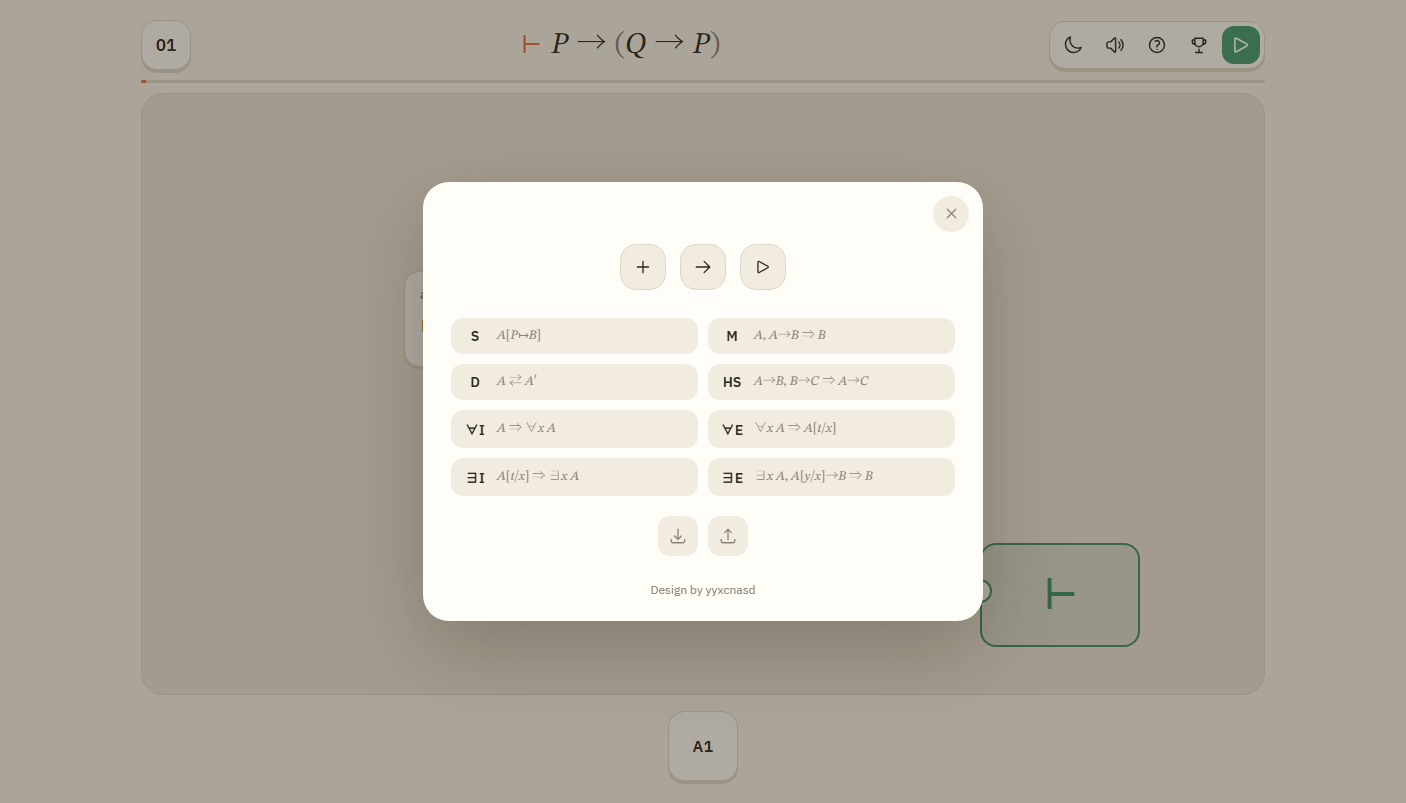
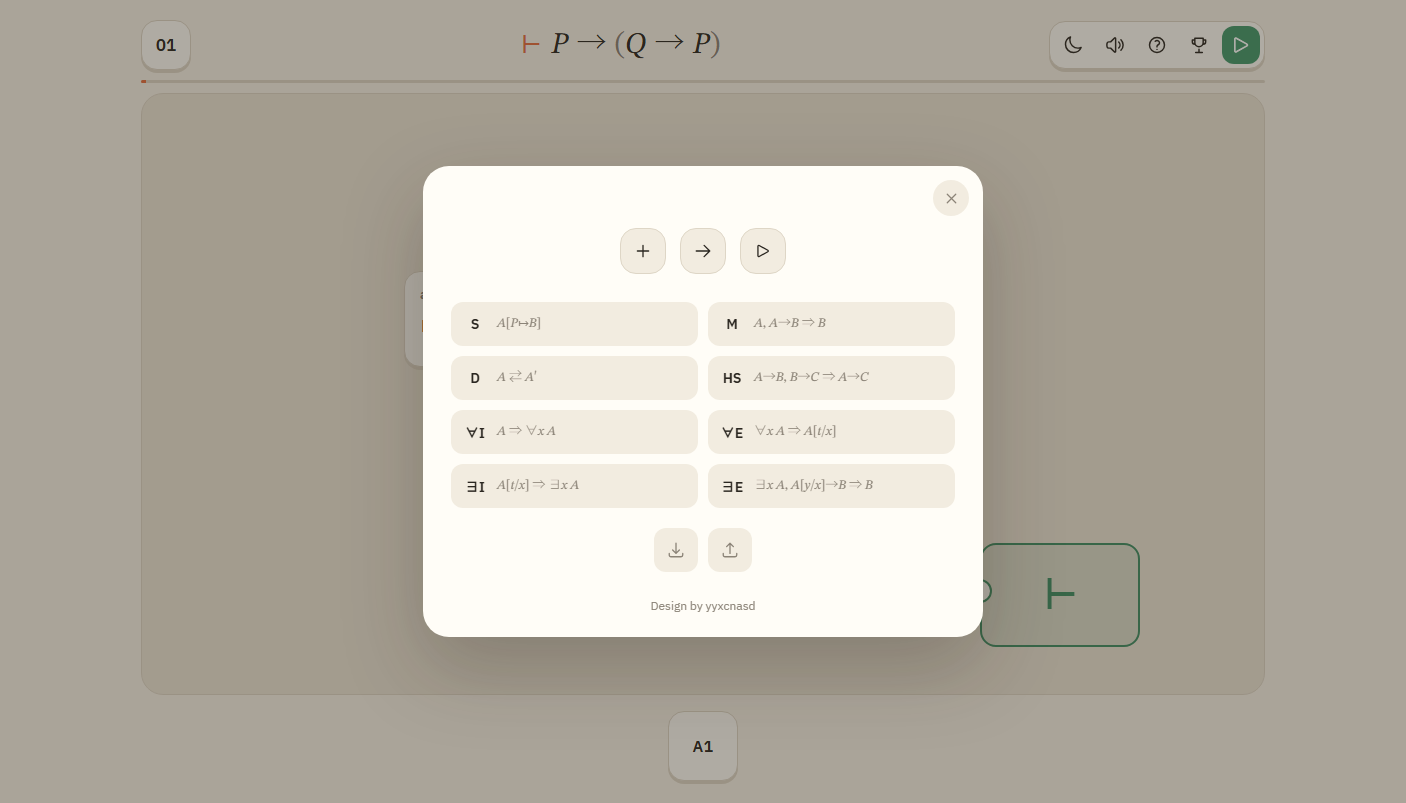
Add mobile adaptation: safe areas, touch hit targets, wiring tolerance, landscape layout
- safe-area insets on topbar/stage/tray/popover/sheet for notch and home indicator
- 44px effective hit targets (38px visuals) for topbar/sheet controls; help cards/save/opt >=44; coarse pointer ports 24px
- touch wiring snaps to nearest port within 30px; started from output or finished on input; long-press delete kept
- double-tap empty board (or double-click) refits the circuit to the viewport
- landscape (height <=520px) compacts topbar and tray; board height rises from 189px to 267px at 844x390
- iOS polish: tap-highlight off, -webkit-overflow-scrolling, prefixed backdrop blur, no text selection on game surfaces
- acceptance extended: pinch already covered; now touch near-miss wiring, double-tap fit, landscape height/no-overflow/target visibility

diff --git a/src/simple.css b/src/simple.css
@@ -202,11 +202,12 @@ html{
   text-size-adjust:100%;
 }
 body{
-  height:100%;margin:0;overflow:hidden;
+  height:100%;margin:0;overflow:hidden;overscroll-behavior:none;
   background:var(--bg);
   color:var(--ink);
   font-family:var(--font);
   -webkit-font-smoothing:antialiased;
+  -webkit-tap-highlight-color:transparent;
   font-variant-numeric:tabular-nums;
 }
 button{font:inherit;color:inherit;border:0;background:none;padding:0;cursor:pointer}
@@ -254,7 +255,8 @@ button{font:inherit;color:inherit;border:0;background:none;padding:0;cursor:poin
   grid-row:1;grid-column:1;
   width:100%;max-width:var(--shell-w);margin-inline:auto;
   display:grid;grid-template-columns:auto minmax(0,1fr) auto;
-  align-items:center;gap:22px;padding:20px var(--gap) 10px;
+  align-items:center;gap:22px;
+  padding:calc(20px + env(safe-area-inset-top,0px)) calc(var(--gap) + env(safe-area-inset-right,0px)) 10px calc(var(--gap) + env(safe-area-inset-left,0px));
 }
 
 .level-num{
@@ -359,6 +361,7 @@ button{font:inherit;color:inherit;border:0;background:none;padding:0;cursor:poin
   box-shadow:var(--board-inset);
   touch-action:none;cursor:default;
 }
+.board,.topbar,.tray{-webkit-user-select:none;user-select:none}
 .board.is-panning{cursor:grabbing}
 .board.is-pinching{cursor:zoom-in}
 .board.is-wiring{cursor:crosshair}
@@ -497,7 +500,7 @@ button{font:inherit;color:inherit;border:0;background:none;padding:0;cursor:poin
   transform:translate(-50%,-50%);max-width:calc(100vw - 32px);
   padding:14px 18px;border-radius:var(--radius-lg);background:var(--coach-bg);border:0;
   box-shadow:var(--pop-shadow);cursor:default;
-  backdrop-filter:blur(6px);
+  -webkit-backdrop-filter:blur(6px);backdrop-filter:blur(6px);
   text-align:center;
 }
 .coach-flow{
@@ -528,7 +531,8 @@ button{font:inherit;color:inherit;border:0;background:none;padding:0;cursor:poin
   grid-row:4;grid-column:1;
   width:100%;max-width:var(--shell-w);margin-inline:auto;
   display:flex;align-items:center;justify-content:center;gap:12px;
-  min-height:108px;padding:14px var(--gap) 20px;
+  min-height:108px;
+  padding:14px calc(var(--gap) + env(safe-area-inset-right,0px)) calc(20px + env(safe-area-inset-bottom,0px)) calc(var(--gap) + env(safe-area-inset-left,0px));
   overflow-x:auto;overflow-y:hidden;
   scrollbar-width:none;overscroll-behavior-x:contain;
 }
@@ -569,7 +573,7 @@ body.is-holding *{cursor:grabbing!important}
  * ========================================================================= */
 
 .popover{
-  position:fixed;left:50%;bottom:112px;z-index:var(--z-popover);
+  position:fixed;left:50%;bottom:calc(112px + env(safe-area-inset-bottom,0px));z-index:var(--z-popover);
   transform:translateX(-50%);
   display:flex;align-items:center;gap:8px;max-width:calc(100vw - 28px);
   padding:10px 12px;border-radius:var(--radius-lg);
@@ -635,7 +639,7 @@ body.is-holding *{cursor:grabbing!important}
   padding:56px 24px 24px;
   background:var(--card);border-radius:var(--radius-sheet);
   box-shadow:var(--sheet-shadow);
-  scrollbar-width:none;overscroll-behavior:contain;
+  scrollbar-width:none;overscroll-behavior:contain;-webkit-overflow-scrolling:touch;
 }
 .sheet::-webkit-scrollbar{display:none;width:0;height:0}
 /* 面板容器由脚本 focus() 承接键盘焦点，不需要再画一圈焦点环（否则整个面板描边） */
@@ -807,7 +811,7 @@ body.is-holding *{cursor:grabbing!important}
 }
 .help-card{
   display:flex;flex-direction:row;align-items:center;gap:9px;
-  padding:9px 11px;border-radius:var(--radius-sm);background:var(--soft);
+  min-height:44px;padding:9px 11px;border-radius:var(--radius-sm);background:var(--soft);
   min-width:0;cursor:pointer;font-family:var(--font);text-align:left;
   transition:background .12s var(--ease),transform .12s var(--ease);
 }
@@ -822,7 +826,7 @@ body.is-holding *{cursor:grabbing!important}
 
 .save-row{display:flex;flex-direction:row;justify-content:center;gap:10px;padding:14px 0 0}
 .save-btn{
-  display:flex;align-items:center;justify-content:center;width:40px;height:40px;padding:0;
+  display:flex;align-items:center;justify-content:center;width:44px;height:44px;padding:0;
   border-radius:var(--radius-sm);background:var(--soft);color:var(--muted);
   transition:background .12s var(--ease),color .12s var(--ease);
 }
@@ -939,7 +943,7 @@ body.is-holding *{cursor:grabbing!important}
     grid-template-areas:"level actions" "goal goal";
     align-items:center;
     column-gap:10px;row-gap:6px;
-    padding:10px 12px 6px;
+    padding:calc(10px + env(safe-area-inset-top,0px)) calc(12px + env(safe-area-inset-right,0px)) 6px calc(12px + env(safe-area-inset-left,0px));
   }
   .level-num{
     grid-area:level;
@@ -951,8 +955,8 @@ body.is-holding *{cursor:grabbing!important}
   .goal.is-long{font-size:13px;line-height:1.25}
 
   .actions{grid-area:actions;justify-self:end;gap:3px;padding:3px;border-radius:var(--radius-sm)}
-  .actions .round-btn{width:34px;height:34px;font-size:16px}
-  .actions .check-btn{width:34px;height:34px;font-size:19px}
+  .actions .round-btn{width:38px;height:38px;font-size:16px}
+  .actions .check-btn{width:38px;height:38px;font-size:19px}
 
   .progress{width:calc(100% - 24px);max-width:calc(100% - 24px);margin:0 auto 2px}
 
@@ -975,7 +979,9 @@ body.is-holding *{cursor:grabbing!important}
 
   .tray{
     max-width:100%;
-    min-height:88px;padding:10px 12px 16px;gap:9px;
+    min-height:88px;
+    padding:10px calc(12px + env(safe-area-inset-right,0px)) calc(16px + env(safe-area-inset-bottom,0px)) calc(12px + env(safe-area-inset-left,0px));
+    gap:9px;
     justify-content:flex-start;
     /* 横向溢出提示：两侧 12px 渐隐，不引入图片 */
     -webkit-mask-image:linear-gradient(90deg,transparent 0,#000 12px,#000 calc(100% - 12px),transparent 100%);
@@ -987,8 +993,8 @@ body.is-holding *{cursor:grabbing!important}
   .tile.is-code{font-size:14px}
   .tile.is-code.is-long{font-size:10.5px}
 
-  .popover{bottom:96px;gap:6px;padding:8px 10px;border-radius:var(--radius-lg)}
-  .opt{min-width:42px;height:42px;border-radius:var(--radius-sm);font-size:16px}
+  .popover{bottom:calc(96px + env(safe-area-inset-bottom,0px));gap:6px;padding:8px 10px;border-radius:var(--radius-lg)}
+  .opt{min-width:44px;height:44px;border-radius:var(--radius-sm);font-size:16px}
   .opt-var{font-size:18px}
   .opt-sym{font-size:17px}
   .opt-code{font-size:13.5px}
@@ -997,11 +1003,11 @@ body.is-holding *{cursor:grabbing!important}
   /* toast 跟随两行顶栏自动下移（grid 第 3 行顶部），只需收紧间距 */
   .toast{margin-top:8px;font-size:13px;padding:9px 15px}
 
-  .sheet{padding:52px 20px 20px;border-radius:var(--radius-lg)}
+  .sheet{padding:52px 20px calc(20px + env(safe-area-inset-bottom,0px)) 20px;border-radius:var(--radius-lg)}
   /* 窄屏 sheet 内边距更小，滚动条滑块右移，别压住卡片右缘 */
   .sheet-bar i{left:8px}
-  .sheet-x{top:12px;right:12px;width:34px;height:34px}
-  .achv-back{top:12px;left:12px;width:34px;height:34px}
+  .sheet-x{top:12px;right:12px;width:38px;height:38px}
+  .achv-back{top:12px;left:12px;width:38px;height:38px}
 
   .levels{grid-template-columns:repeat(5,46px);gap:9px}
   .level-cell{width:46px;height:46px;border-radius:var(--radius-sm)}
@@ -1029,14 +1035,48 @@ body.is-holding *{cursor:grabbing!important}
 
   .check-btn{padding:0 11px}
   .actions{gap:2px;padding:2px}
-  .actions .round-btn{width:32px;height:32px}
-  .actions .check-btn{width:32px;height:32px;font-size:18px}
+  .actions .round-btn{width:38px;height:38px}
+  .actions .check-btn{width:38px;height:38px;font-size:19px}
 
   .levels{grid-template-columns:repeat(4,46px)}
   .sheet{padding:50px 16px 18px}
   .help-cards{grid-template-columns:1fr}
   .win-formula{font-size:19px}
   .next-btn{min-width:0;width:100%}
+}
+
+/* =========================================================================
+ * 23b 触屏 / 横屏补充
+ * ========================================================================= */
+
+/* 粗指针（手指）设备：端口视觉略大、命中环更大；实际连接还有 30px 就近吸附 */
+@media (pointer:coarse){
+  .port{width:24px;height:24px;border-width:3px}
+  .port-in{left:-13px}
+  .port-out{right:-12px}
+  .port::after{inset:-10px}
+  .node.is-target .port-in{width:26px;height:26px;left:-14px}
+}
+
+/* 横屏且高度紧张：压缩顶栏/元件盘，把高度让给棋盘 */
+@media (orientation:landscape) and (max-height:520px){
+  .topbar{padding:6px calc(12px + env(safe-area-inset-right,0px)) 4px calc(12px + env(safe-area-inset-left,0px));row-gap:2px;column-gap:8px}
+  .goal{font-size:16px;gap:6px}
+  .goal.is-long{font-size:11.5px}
+  .level-num{width:38px;height:38px;border-radius:12px;font-size:14px}
+  .actions{gap:2px;padding:2px}
+  .actions .round-btn{width:34px;height:34px;font-size:15px}
+  .actions .check-btn{width:34px;height:34px;font-size:18px}
+  .stage{padding-top:2px}
+  .tray{min-height:64px;padding-top:6px;padding-bottom:calc(8px + env(safe-area-inset-bottom,0px));gap:8px}
+  .tile{width:48px;height:48px;border-radius:12px;box-shadow:var(--sticker)}
+  .tile.is-var{font-size:20px}
+  .tile.is-symbol{font-size:20px}
+  .tile.is-code{font-size:12px}
+  .tile.is-code.is-long{font-size:9px}
+  .popover{bottom:calc(72px + env(safe-area-inset-bottom,0px))}
+  .sheet{max-height:94dvh;padding-top:46px}
+  .coach{top:52%}
 }
 
 /* =========================================================================

diff --git a/src/board.js b/src/board.js
@@ -72,6 +72,7 @@
     this._long = null;
     this._touches = Object.create(null);   // pointerId -> {x,y}，双指缩放用
     this._pinch = null;
+    this._lastTap = null;                  // 双击空板 = 适应视图
     this._elById = Object.create(null);   // id -> node element, rebuilt by render()
     this._wireEls = Object.create(null);  // edge id -> { path, hit }, rebuilt by full _updateWires
     this._lastUsed = null;
@@ -90,7 +91,9 @@
     this.board.addEventListener('click', function (e) { self._click(e); });
     this.board.addEventListener('dblclick', function (e) {
       var wire = e.target.closest && e.target.closest('.wire-hit');
-      if (wire) self.removeEdge(wire.dataset.edge);
+      if (wire) { self.removeEdge(wire.dataset.edge); return; }
+      var node = e.target.closest && e.target.closest('.node');
+      if (!node) { self.fit({ minScale: 0.35 }); self.onChange(); }
     });
     this.board.addEventListener('contextmenu', function (e) {
       e.preventDefault();
@@ -261,7 +264,16 @@
         return;
       }
     }
-    var port = e.target.closest && e.target.closest('.port');
+    var directPort = e.target.closest && e.target.closest('.port');
+    if (!directPort && e.pointerType === 'touch') {
+      var nearOut = this._nearestPort(e.clientX, e.clientY, '.port-out', 26);
+      if (nearOut) {
+        e.preventDefault();
+        this._startDraft(nearOut.nodeId, nearOut.portId, e.clientX, e.clientY);
+        return;
+      }
+    }
+    var port = directPort;
     if (port) {
       e.preventDefault();
       e.stopPropagation();
@@ -424,6 +436,7 @@
     if (this._pan) {
       this.view.x = this._pan.x + (e.clientX - this._pan.sx);
       this.view.y = this._pan.y + (e.clientY - this._pan.sy);
+      if (Math.abs(e.clientX - this._pan.sx) + Math.abs(e.clientY - this._pan.sy) > 5) this._pan.moved = true;
       this._applyView();
       return;
     }
@@ -494,10 +507,21 @@
       } else if (staleDrag) this._updateWires();
       return;
     }
-    if (this._pan) { this._pan = null; this.board.classList.remove('is-panning'); return; }
+    if (this._pan) {
+      var wasTap = !this._pan.moved;
+      this._pan = null;
+      this.board.classList.remove('is-panning');
+      if (wasTap && e.pointerType === 'touch') this._handleTapFit(e.clientX, e.clientY);
+      return;
+    }
     if (!this.draft) return;
     var el = document.elementFromPoint(e.clientX, e.clientY);
     var inPort = el && el.closest && el.closest('.port-in');
+    if (!inPort && e.pointerType === 'touch') {
+      inPort = (function (near) {
+        return near ? this.nodes.querySelector('.node[data-id="' + near.nodeId + '"] .port-in[data-port="' + near.portId + '"]') : null;
+      }).call(this, this._nearestPort(e.clientX, e.clientY, '.port-in', 30));
+    }
     if (inPort) {
       var mod = inPort.closest('.node');
       this.connect(this.draft.from.node, this.draft.from.port, mod.dataset.id, inPort.dataset.port);
@@ -505,6 +529,37 @@
       return;
     }
     if (e.pointerType !== 'touch') this._cancelDraft();
+  };
+
+  /* 触屏端口命中容差：取离手指最近、且在 maxDist 内的端口。 */
+  Board.prototype._nearestPort = function (cx, cy, selector, maxDist) {
+    var list = this.nodes.querySelectorAll(selector);
+    var best = null, bestDist = maxDist;
+    for (var i = 0; i < list.length; i += 1) {
+      var el = list[i];
+      var r = el.getBoundingClientRect();
+      var dx = (r.left + r.width / 2) - cx;
+      var dy = (r.top + r.height / 2) - cy;
+      var dist = Math.sqrt(dx * dx + dy * dy);
+      if (dist <= bestDist) {
+        bestDist = dist;
+        var nodeEl = el.closest('.node');
+        best = { nodeId: nodeEl.dataset.id, portId: el.dataset.port, el: el, dist: dist };
+      }
+    }
+    return best;
+  };
+
+  /* 双击/双点空板：把当前电路（含目标焊盘）重新框进视口。 */
+  Board.prototype._handleTapFit = function (cx, cy) {
+    var now = Date.now();
+    var last = this._lastTap;
+    this._lastTap = { t: now, x: cx, y: cy };
+    if (!last || now - last.t > 320) return;
+    if (Math.sqrt((cx - last.x) * (cx - last.x) + (cy - last.y) * (cy - last.y)) > 24) return;
+    this._lastTap = null;
+    this.fit({ minScale: 0.35 });
+    this.onChange();
   };
 
   Board.prototype._click = function (e) {

diff --git a/tests/acceptance.js b/tests/acceptance.js
@@ -619,6 +619,37 @@ runTest('acceptance', async ({ openPage }) => {
   ok(pinchMid.active === true, '双指按下进入 pinch 态');
   ok(pinchAfter.scale > pinchBefore * 1.3, '双指拉开后棋盘放大（' + pinchBefore.toFixed(2) + ' → ' + pinchAfter.scale.toFixed(2) + '）');
   equal(pinchAfter.active, false, '松手后退出 pinch 态');
+
+  /* 手指连接：按在端口附近（偏离 9px）也能起线/落线；双击空板回到适应视图 */
+  await page.send('Emulation.setTouchEmulationEnabled', { enabled: true, maxTouchPoints: 2 });
+  await page.js('window.RSL.APP.state.forceUnlock = true');
+  await page.js('window.RSL.APP.loadLevel(1)');
+  await page.waitFor('window.RSL.APP.state.level.id === "CH1-02"');
+  await page.js('document.querySelector(".tile").click()');
+  await page.waitFor('document.querySelectorAll(".node").length === 2');
+  await page.sleep(400);
+  const nearPorts = await page.js(`(function(){
+    var o=document.querySelector('.node[data-kind="axiom"] .port-out').getBoundingClientRect();
+    var i=document.querySelector('.node.is-target .port-in').getBoundingClientRect();
+    return {o:{x:o.left+o.width/2+9,y:o.top+o.height/2+7}, i:{x:i.left+i.width/2-9,y:i.top+i.height/2-7}};
+  })()`);
+  const tapAt = async (pt) => {
+    await page.send('Input.dispatchTouchEvent', { type: 'touchStart', touchPoints: [{ x: pt.x, y: pt.y, id: 0 }] });
+    await page.sleep(70);
+    await page.send('Input.dispatchTouchEvent', { type: 'touchEnd', touchPoints: [] });
+    await page.sleep(250);
+  };
+  await tapAt(nearPorts.o);
+  await tapAt(nearPorts.i);
+  equal(await page.js('document.querySelectorAll(".wire").length'), 1, '手指偏离端口 9px 仍能完成连线');
+  equal(await page.js('document.querySelector(".node.is-target").dataset.state'), 'complete', '手指连线后目标 complete');
+  const tapFitBefore = await page.js('window.RSL.APP.state.board.view.scale');
+  const boardTap = await page.js(`(function(){var b=document.getElementById('board').getBoundingClientRect();return {x:b.left+b.width/2,y:b.top+b.height*0.78};})()`);
+  await tapAt(boardTap);
+  await tapAt(boardTap);
+  const tapFitAfter = await page.js('window.RSL.APP.state.board.view.scale');
+  ok(Math.abs(tapFitAfter - tapFitBefore) > 0.01, '双击空板把视图复位到适应视图（' + tapFitBefore.toFixed(2) + ' → ' + tapFitAfter.toFixed(2) + '）');
+  await page.send('Emulation.setTouchEmulationEnabled', { enabled: false });
   await page.shot('08-mobile-390');
 
   await reloadAt(320, 640, '320×640');
@@ -645,6 +676,21 @@ runTest('acceptance', async ({ openPage }) => {
   equal((await measureTarget(page, 'CH1-13')).inside, true, '320×640：y=640 远目标完整可见');
   equal((await measureTarget(page, 'CH4-23')).inside, true, '320×640：长目标完整可见');
   await page.shot('09-narrow-320');
+
+  /* 横屏手机：压缩顶栏/元件盘后棋盘仍保留可用高度 */
+  await reloadAt(844, 390, '844×390');
+  const landscape = await page.js(`(function(){
+    var b=document.getElementById('board').getBoundingClientRect();
+    var tb=document.querySelector('.topbar').getBoundingClientRect();
+    var tr=document.getElementById('tray').getBoundingClientRect();
+    return {boardH:b.height, topbarH:tb.height, trayH:tr.height,
+            overflow:document.documentElement.scrollWidth>innerWidth,
+            targetInside:window.__qa.inside(window.__qa.rect('.node.is-target'), window.__qa.rect('#board'))};
+  })()`);
+  ok(landscape.boardH >= 230, '844×390 横屏：棋盘高度 ≥230px（实际 ' + Math.round(landscape.boardH) + 'px）');
+  equal(landscape.overflow, false, '844×390 横屏：无横向溢出');
+  equal(landscape.targetInside, true, '844×390 横屏：目标焊盘完整可见');
+  await page.shot('11-landscape-844');
 
   /* ------------------------------------------------------------------
    * J. dist 构建产物 smoke：file:// 打开，首关放置 → 连线 → 通关

diff --git a/docs/DESIGN.md b/docs/DESIGN.md
@@ -75,12 +75,19 @@
 - 图标优先：能用一个图标说清的动作不写文字（帮助三步、存档/读档、顶栏工具）；规则卡
   只写代号 + 公式；面板不出现标题/说明。文字只在“按钮必须可读”或“详情必须解释”时保留。
 
-## 6. 响应式
+## 6. 响应式与触屏
 
 - ≤700px：顶栏两行（关卡号 + 工具组 / 目标公式整行）；元件盘横向滚动并用 12px 渐隐提示；
   面板全宽、成就 3 列、关卡 5 列。
 - ≤380px：目标公式 12.5px 起、帮助卡单列、`下一关` 按钮撑满。
-- 触屏：棋盘支持双指缩放；端口命中区用 `::after` 扩到 38px 以上。
+- 触屏：棋盘支持双指缩放、双击空板把视图复位到“适应电路”；手指连接导线会吸附到
+  30px 内最近的端口；单指按住模块 650ms 删除。
+- 触控目标：顶栏/面板按钮视觉 38px，命中区用 `::after` 扩到 44px；粗指针设备端口视觉 24px；
+  帮助卡、存档按钮和配置芯片不小于 44px。
+- 安全区：顶栏、棋盘、元件盘、浮条、面板都留出 `env(safe-area-inset-*)`（刘海屏与底部手势条）。
+- 横屏且高度 ≤520px：压缩顶栏与元件盘（tile 48px），棋盘至少保留 230–270px 高度。
+- iOS：关闭 tap highlight、加 `-webkit-overflow-scrolling:touch` 与
+  `-webkit-backdrop-filter`；棋盘/顶栏/元件盘禁止误选文字，面板内容仍可选。
 
 ## 7. 不要动的东西
 

diff --git a/README.md b/README.md
@@ -30,7 +30,7 @@
 1. **拿模块**：从下栏把模块拖到板上；也可以点一下，让模块粘在鼠标上，再点画布放下。下栏里 `*07` 表示已经通过的第 7 关。
 2. **接线**：从模块右侧圆点拖到另一个模块左侧圆点；也可以先点输出、再点输入。
 3. **校验**：把最终断言接到右侧的 `⊢`，点顶栏最右边的播放键。
-4. **修改**：右键删除模块或导线，触屏长按删除；点模块可以改参数。触屏可以双指缩放棋盘。
+4. **修改**：右键删除模块或导线，触屏长按删除；点模块可以改参数。触屏可以双指缩放棋盘，双击空板回到适应视图。
 
 进入关卡时会弹一次规则提示，只画“输入 → 模块 → 输出”；第一次左键操作后自动消失，不显示本关答案。S 代入可以同时接最多 5 组“原子 + 公式”（点 + 加组），一次换多个变元。帮助页里还有 S/M/D/HS/∀I/∀E/∃I/∃E 的公式图示，点卡片可以重新看提示。
 
